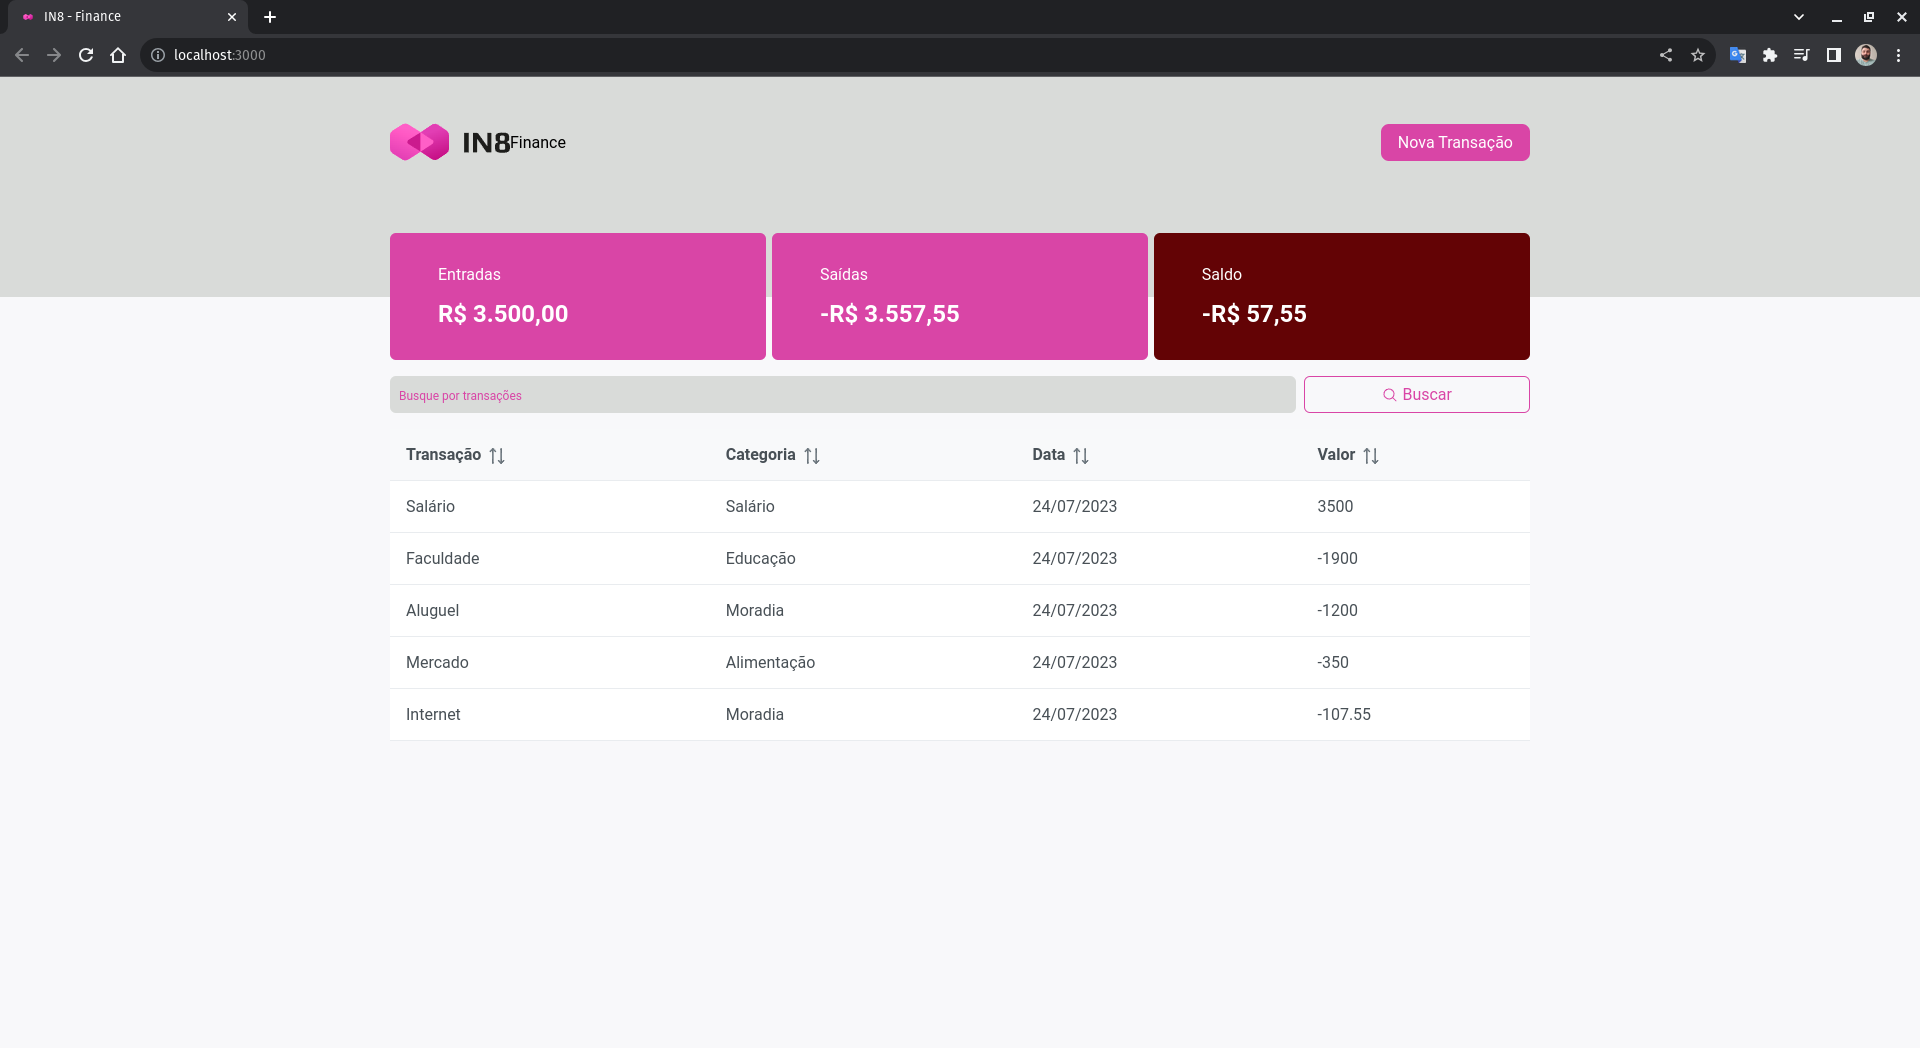
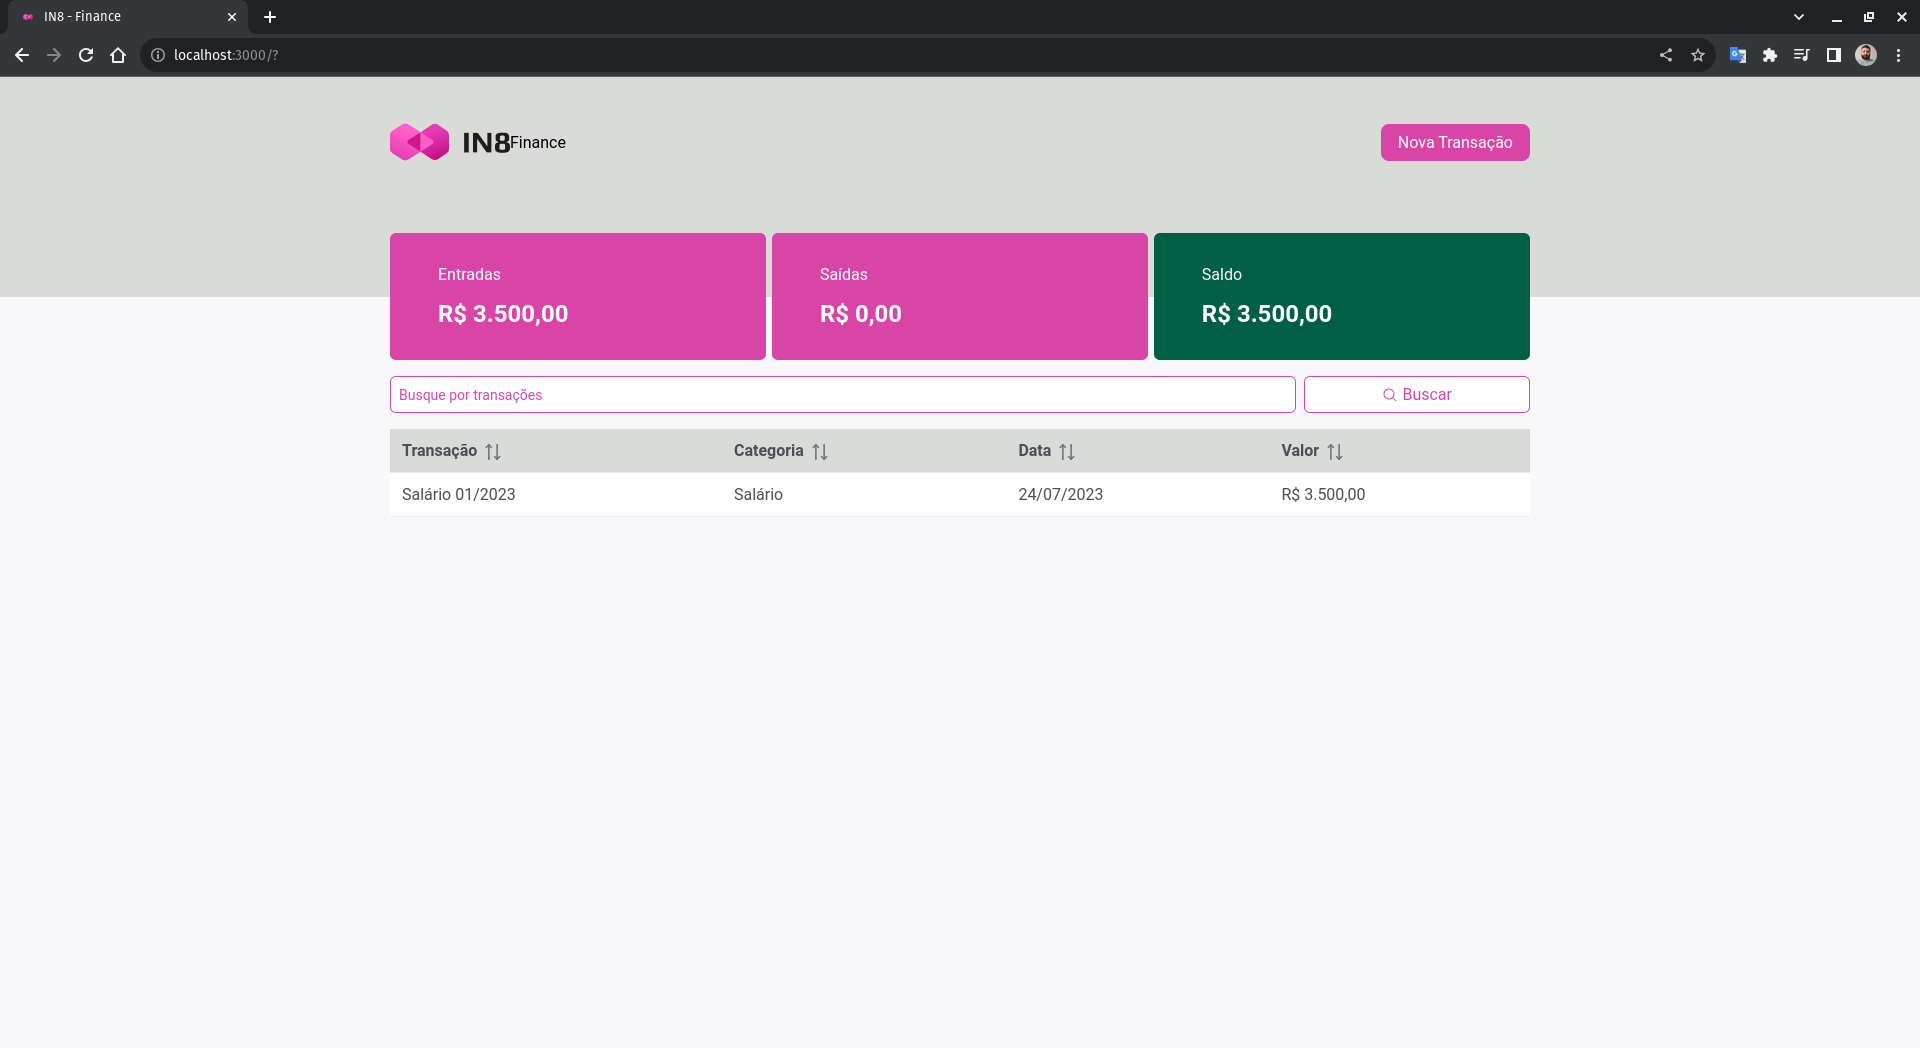
🚑 📝 Atualização da Documentação e Bugfix

diff --git a/src/components/DataTableComponent/index.tsx b/src/components/DataTableComponent/index.tsx
@@ -7,6 +7,14 @@ import { TransactionsContext } from '@/src/contexts/TransactionsContextType'
 export default function DataTableComponent() {
   const { transactions, getTransactions } = useContext(TransactionsContext)
 
+  const formatCurrency = (value: number) => {
+    return value.toLocaleString('pt-br', { currency: 'BRL', style: 'currency' })
+  }
+
+  const priceBodyTemplate = (product: any) => {
+    return formatCurrency(product.value)
+  }
+
   useEffect(() => {
     getTransactions()
   }, [])
@@ -20,11 +28,18 @@ export default function DataTableComponent() {
             minWidth: '100%',
             textAlign: 'left',
           }}
+          emptyMessage="Nenhuma transação encontrada"
         >
           <Column field="description" sortable header="Transação"></Column>
           <Column field="category" sortable header="Categoria"></Column>
           <Column field="createdAt" sortable header="Data"></Column>
-          <Column field="value" sortable header="Valor"></Column>
+          <Column
+            field="value"
+            sortable
+            header="Valor"
+            dataType="numeric"
+            body={priceBodyTemplate}
+          />
         </DataTable>
       </DataTableContainer>
     </div>

diff --git a/src/components/InputText/styles.ts b/src/components/InputText/styles.ts
@@ -10,17 +10,22 @@ export const InputTextContainer = styled('form', {
     padding: '0.5rem',
     width: '80%',
     borderRadius: 6,
-    backgroundColor: '$gray200',
+    backgroundColor: '$white',
     color: '$pink600',
-    border: '1px solid transparent',
+    border: '1px solid $pink600',
 
     '&::placeholder': {
       color: '$pink600',
-      fontSize: '0.75rem',
+      fontSize: '.875rem',
     },
 
-    '&:focus': {
-      outline: '2px solid $pink600',
+    '&:not(disabled):hover': {
+      borderColor: '$pink600',
+    },
+
+    '&:not(disabled):focus': {
+      boxShadow: 'none',
+      borderColor: '$pink600',
     },
   },
 })
@@ -33,7 +38,7 @@ export const InputTextButton = styled('button', {
   borderRadius: 6,
   border: '1px solid $pink600',
   color: '$pink600',
-  backgroundColor: 'transparent',
+  backgroundColor: '$white',
   cursor: 'pointer',
   transition: '0.5s',
 

diff --git a/src/components/DataTableComponent/styles.ts b/src/components/DataTableComponent/styles.ts
@@ -3,21 +3,16 @@ import { styled } from '@/src/styles'
 export const DataTableContainer = styled('div', {
   '.p-datatable-table': {
     fontFamily: 'Roboto',
+
     // border: '1px solid red',
   },
 
-  '.p-datatable-thead': {
-    th: {
-      // border: '1px solid red',
-      backgroundColor: '$gray200',
-      padding: '0.3rem',
-    },
+  '.p-datatable .p-datatable-thead > tr > th': {
+    backgroundColor: '$gray200',
+    padding: '0.75rem',
   },
 
-  '.p-datatable-tbody': {
-    td: {
-      borderBottom: '1px solid $gray200',
-      paddingLeft: '0.3rem',
-    },
+  '.p-datatable .p-datatable-tbody > tr > td': {
+    padding: '0.75rem',
   },
 })

diff --git a/src/components/Modal/index.tsx b/src/components/Modal/index.tsx
@@ -43,6 +43,7 @@ export default function DialogModal() {
       defaultValues: {
         description: '',
         transactionType: 'Entrada',
+        value: 0,
       },
     },
   )

diff --git a/README.md b/README.md
@@ -57,3 +57,7 @@ O desafio deve ser enviado [AQUI](https://docs.google.com/forms/d/e/1FAIpQLSdZA8
 ![evidência 03](./public/evidencias/evidencia03.png)
 
 ![evidência 04](./public/evidencias/evidencia04.png)
+
+![evidência 05](./public/evidencias/evidencia05.png)
+
+![evidência 06](./public/evidencias/evidencia0.png)
